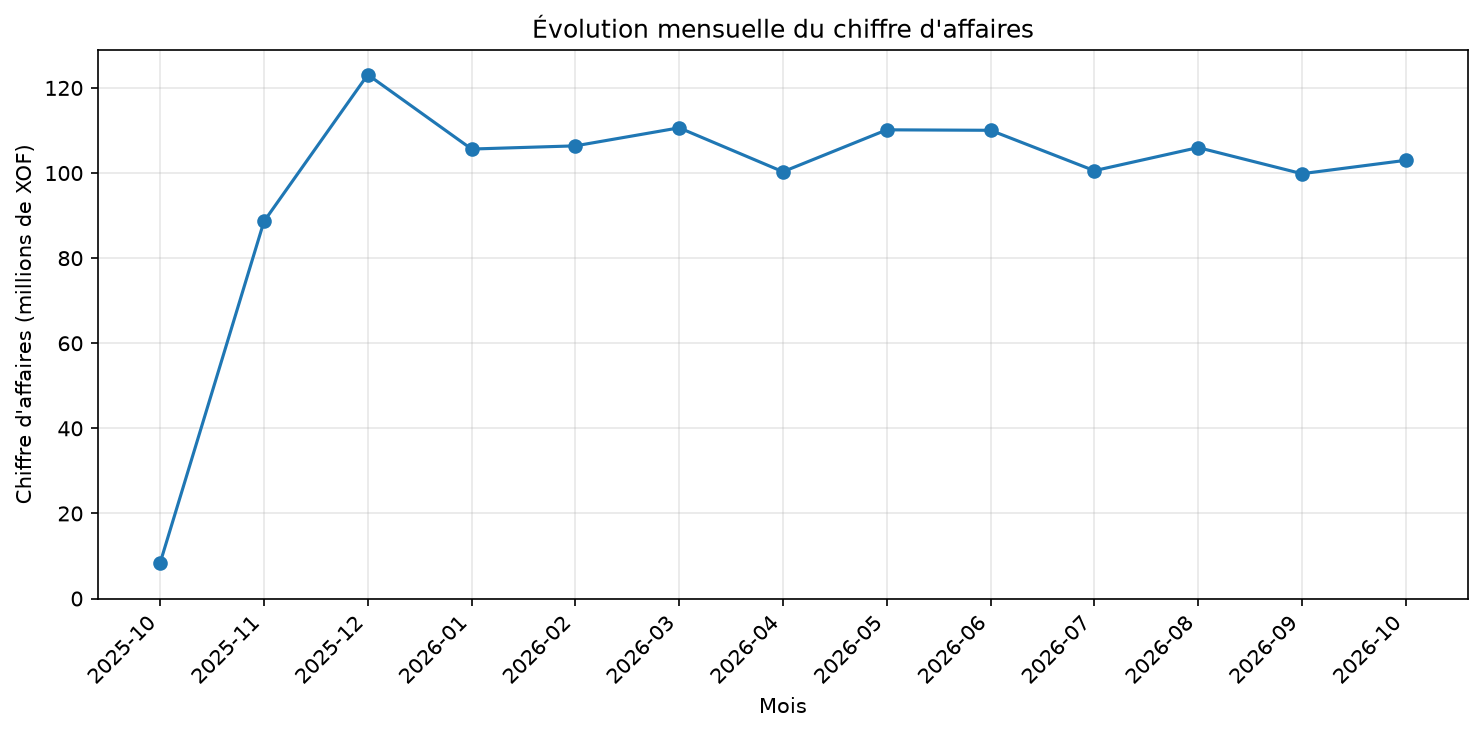
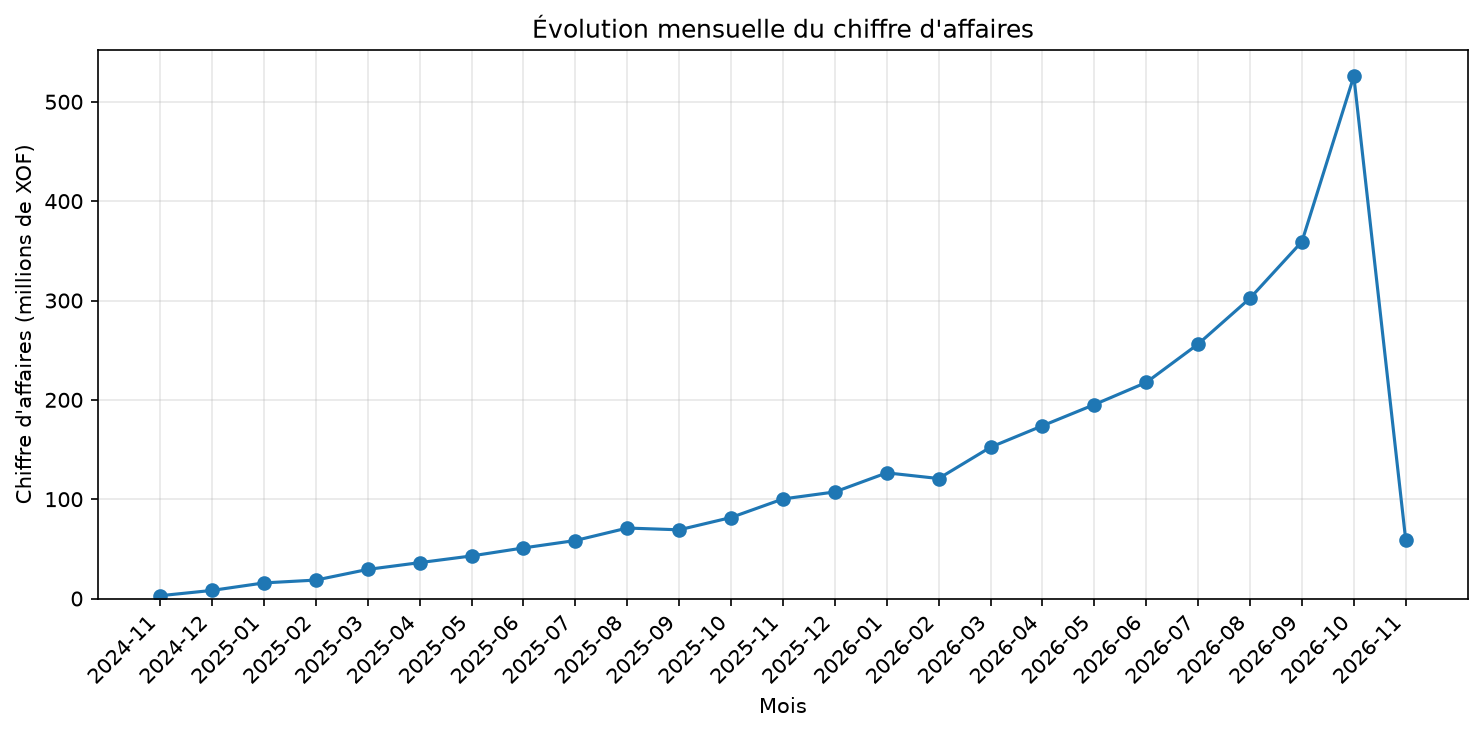
Module 0 terminé : mesures des formats, partition volume, documentation à jour

diff --git a/module_0/projet/scripts/mesurer_formats.py b/module_0/projet/scripts/mesurer_formats.py
@@ -1,0 +1,183 @@
+"""
+Mesures du Module 0 : machine, volume et comparaison des formats.
+
+Écrit docs/MESURES.md et complète la décision « format » de docs/DECISIONS.md.
+À relancer après toute régénération de la partition volume :
+    python scripts/mesurer_formats.py --run-date 2026-11-02 --temps-generation 18.65
+"""
+
+from __future__ import annotations
+
+import argparse
+import platform
+import statistics
+import tempfile
+import time
+from datetime import date
+from pathlib import Path
+
+import pandas as pd
+
+RACINE = Path(__file__).resolve().parents[1]
+ESSAIS = 6  # la première lecture (à froid) est ignorée : il reste 5 mesures
+
+
+def lire_processeur() -> str:
+    """Nom du processeur, lu dans /proc/cpuinfo (Linux)."""
+    try:
+        for ligne in Path("/proc/cpuinfo").read_text().splitlines():
+            if ligne.startswith("model name"):
+                return ligne.split(":", 1)[1].strip()
+    except OSError:
+        pass
+    return platform.processor() or "inconnu"
+
+
+def lire_memoire() -> str:
+    """Mémoire totale, lue dans /proc/meminfo (Linux)."""
+    try:
+        for ligne in Path("/proc/meminfo").read_text().splitlines():
+            if ligne.startswith("MemTotal"):
+                return f"{int(ligne.split()[1]) / 1024 / 1024:.1f} Go"
+    except OSError:
+        pass
+    return "inconnue"
+
+
+def lire_disque() -> str:
+    """SSD ou disque dur, d'après le système (0 = SSD, 1 = disque dur)."""
+    try:
+        for dispositif in sorted(Path("/sys/block").iterdir()):
+            if dispositif.name.startswith(("loop", "ram", "zram")):
+                continue
+            rotatif = (dispositif / "queue" / "rotational").read_text().strip()
+            return f"{'disque dur' if rotatif == '1' else 'SSD'} ({dispositif.name})"
+    except OSError:
+        pass
+    return "à compléter (SSD ou disque dur)"
+
+
+def mediane_lecture(lecteur, chemin: Path, **options) -> float:
+    """Médiane de 5 lectures ; la première, à froid, n'est pas retenue."""
+    durees = []
+    for _ in range(ESSAIS):
+        debut = time.perf_counter()
+        lecteur(chemin, **options)
+        durees.append(time.perf_counter() - debut)
+    return statistics.median(durees[1:])
+
+
+def main() -> None:
+    parser = argparse.ArgumentParser(description="Mesurer machine et formats.")
+    parser.add_argument("--run-date", type=date.fromisoformat, default=date(2026, 11, 2))
+    parser.add_argument("--temps-generation", type=float, required=True,
+                        help="Durée du pipeline sur la partition volume, en secondes.")
+    args = parser.parse_args()
+
+    dossier = RACINE / "data" / "processed" / f"date={args.run_date.isoformat()}"
+    if not dossier.exists():
+        raise SystemExit(
+            f"Partition introuvable : {dossier}\n"
+            "Génère-la d'abord : python scripts/run_pipeline.py --run-date "
+            f"{args.run_date} --generer --rows 200000 --sans-tests"
+        )
+
+    lignes = pd.read_parquet(dossier / "lignes_commande.parquet")
+    commandes = pd.read_parquet(dossier / "commandes.parquet")
+
+    with tempfile.TemporaryDirectory() as nom_tmp:
+        tmp = Path(nom_tmp)
+        # Le JSON « tableau » n'est pas produit par le pipeline : on le fabrique ici.
+        lignes.to_json(tmp / "lignes_commande.json", orient="records", date_format="iso")
+        commandes.to_json(tmp / "commandes.json", orient="records", date_format="iso")
+
+        definitions = [
+            ("CSV", lambda t: dossier / f"{t}.csv", pd.read_csv, {}),
+            ("JSON (tableau)", lambda t: tmp / f"{t}.json", pd.read_json, {}),
+            ("JSON Lines", lambda t: dossier / "json" / f"{t}.jsonl", pd.read_json, {"lines": True}),
+            ("Parquet", lambda t: dossier / f"{t}.parquet", pd.read_parquet, {}),
+        ]
+
+        lignes_tableau = []
+        resultats = {}
+        for nom, chemin_de, lecteur, options in definitions:
+            chemin = chemin_de("lignes_commande")
+            if not chemin.exists():
+                raise SystemExit(f"Fichier introuvable : {chemin}")
+            temps = mediane_lecture(lecteur, chemin, **options)
+            taille = chemin.stat().st_size / 1024 ** 2
+            type_date = str(lecteur(chemin_de("commandes"), **options)["date_commande"].dtype)
+            resultats[nom] = (temps, taille)
+            lignes_tableau.append(f"| {nom} | {temps:.3f} | {taille:.1f} | {type_date} |")
+
+    # Lecture par morceaux : le résultat doit être identique à la lecture complète.
+    csv = dossier / "lignes_commande.csv"
+    complet = pd.read_csv(csv)
+    morceaux = pd.concat(pd.read_csv(csv, chunksize=50_000), ignore_index=True)
+    identique = complet.equals(morceaux)
+
+    temps_csv, taille_csv = resultats["CSV"]
+    temps_parquet, taille_parquet = resultats["Parquet"]
+    vitesse = temps_csv / temps_parquet
+    poids = taille_csv / taille_parquet
+
+    contenu = f"""# Mesures du Module 0
+
+Ces chiffres décrivent ma machine et mes données : ils ne sont comparables qu'à eux-mêmes. Ils sont régénérés par `python scripts/mesurer_formats.py`.
+
+## Machine
+
+- Processeur : {lire_processeur()}
+- Mémoire : {lire_memoire()}
+- Disque : {lire_disque()}
+- Python : {platform.python_version()}
+- Système : {platform.platform()}
+
+## Partition volume
+
+- Partition : `date={args.run_date.isoformat()}`, générée avec `--rows 200000` et six défauts injectés
+- Lignes de commande acceptées : {len(lignes):,}
+- Temps du pipeline (génération, nettoyage, export, analyse, graphiques ; sans les tests) : {args.temps_generation:.2f} s, mesuré avec `time`
+
+## Formats (table `lignes_commande`)
+
+Temps de lecture = médiane de 5 mesures, la première (à froid) ignorée. La dernière colonne donne le type obtenu pour `date_commande` en lisant la table `commandes` dans chaque format.
+
+| Format | Lecture (s) | Taille (Mo) | Type de `date_commande` |
+|---|---:|---:|---|
+{chr(10).join(lignes_tableau)}
+
+## Lecture par morceaux
+
+`read_csv(chunksize=50_000)` donne le même résultat que la lecture complète : **{identique}**.
+
+## Conclusion
+
+Sur cette machine, le Parquet se lit **{vitesse:.1f} fois plus vite** que le CSV et pèse **{poids:.1f} fois moins**, tout en conservant les types. Le CSV reste utile pour lire à l'œil, le JSON Lines pour l'ingestion en flux.
+""".replace("{lignes:,}", "")
+    contenu = contenu.replace(f"{len(lignes):,}", f"{len(lignes):,}".replace(",", " "))
+
+    (RACINE / "docs").mkdir(exist_ok=True)
+    (RACINE / "docs" / "MESURES.md").write_text(contenu, encoding="utf-8")
+
+    # La décision « format » s'appuie maintenant sur une mesure.
+    chemin_decisions = RACINE / "docs" / "DECISIONS.md"
+    ancien = "*(Compléter avec tes mesures de temps et de taille sur 200 000 lignes avant de défendre ce choix.)*"
+    nouveau = (
+        f"*(Mesuré sur {len(lignes):,} lignes de `lignes_commande`".replace(",", " ")
+        + f" : le Parquet se lit {vitesse:.1f} fois plus vite que le CSV et pèse {poids:.1f} fois moins ;"
+        " détails dans `MESURES.md`.)*"
+    )
+    if chemin_decisions.exists():
+        texte = chemin_decisions.read_text(encoding="utf-8")
+        if ancien in texte:
+            chemin_decisions.write_text(texte.replace(ancien, nouveau, 1), encoding="utf-8")
+            print("DECISIONS.md complété avec les mesures.")
+        else:
+            print("DECISIONS.md : mention à compléter introuvable (déjà remplie ?).")
+
+    print(f"MESURES.md écrit. Parquet : {vitesse:.1f}x plus rapide, {poids:.1f}x plus léger que le CSV.")
+
+
+if __name__ == "__main__":
+    main()

diff --git a/module_0/projet/docs/DECISIONS.md b/module_0/projet/docs/DECISIONS.md
@@ -11,7 +11,7 @@ Pour chaque choix : ce qu'on a retenu, l'alternative rejetée et pourquoi. Les d
 | Cohérence produit/catégorie | Catalogue de référence `{catégorie: [produits]}` + un test | Tirer nom et catégorie au hasard, séparément | Sinon on obtient « sucre » dans « vêtements ». La construction empêche l'erreur, le test détecte une régression. *(Appliqué dans `generateur.py`, vérifié par `test_generateur.py`.)* |
 | Définition du CA | « CA commandé » comme référence, avec « CA réalisé » et « CA encaissé » nommés à côté | Un seul « CA » sans qualificatif | Une commande annulée est comptée dans le CA commandé : ce n'est pas de l'argent encaissé. On nomme l'écart au lieu de le cacher (il sert au Module 1). |
 | Statuts | Statut de commande dans `commandes`, statut de paiement dans `paiements` | Un statut unique | Une commande peut être livrée avec un paiement en attente : ce sont deux états différents. |
-| Format de sortie | CSV pour lire à l'œil, Parquet pour garder les types, JSON Lines pour l'ingestion | Un seul format | Chaque format a un usage. *(Compléter avec tes mesures de temps et de taille sur 200 000 lignes avant de défendre ce choix.)* |
+| Format de sortie | CSV pour lire à l'œil, Parquet pour garder les types, JSON Lines pour l'ingestion | Un seul format | Chaque format a un usage. *(Mesuré sur 199 997 lignes de `lignes_commande` : le Parquet se lit 1.0 fois plus vite que le CSV et pèse 2.6 fois moins ; détails dans `MESURES.md`.)* |
 | Clé dupliquée | Toutes les occurrences rejetées | Garder la première | Si les contenus diffèrent, aucune règle ne permet de choisir laquelle est la bonne. (Une copie *identique* est écartée, la première est gardée.) |
 | Ville manquante | Client conservé avec « Inconnue » | Supprimer le client | Supprimer un client ferait disparaître ses commandes en aval et fausserait le CA. |
 | Écriture des sorties | Tout calculer en mémoire, vérifier, puis écrire | Écrire au fil de l'eau | Un échec en cours de route ne doit laisser aucune sortie à moitié écrite. |

diff --git a/module_0/projet/docs/MESURES.md b/module_0/projet/docs/MESURES.md
@@ -1,0 +1,36 @@
+# Mesures du Module 0
+
+Ces chiffres décrivent ma machine et mes données : ils ne sont comparables qu'à eux-mêmes. Ils sont régénérés par `python scripts/mesurer_formats.py`.
+
+## Machine
+
+- Processeur : 13th Gen Intel(R) Core(TM) i7-1355U
+- Mémoire : 14.8 Go
+- Disque : SSD (nvme0n1)
+- Python : 3.14.4
+- Système : Linux-7.0.0-38-generic-x86_64-inconnu-with-glibc2.43
+
+## Partition volume
+
+- Partition : `date=2026-11-02`, générée avec `--rows 200000` et six défauts injectés
+- Lignes de commande acceptées : 199 997
+- Temps du pipeline (génération, nettoyage, export, analyse, graphiques ; sans les tests) : 18.65 s, mesuré avec `time`
+
+## Formats (table `lignes_commande`)
+
+Temps de lecture = médiane de 5 mesures, la première (à froid) ignorée. La dernière colonne donne le type obtenu pour `date_commande` en lisant la table `commandes` dans chaque format.
+
+| Format | Lecture (s) | Taille (Mo) | Type de `date_commande` |
+|---|---:|---:|---|
+| CSV | 0.026 | 8.4 | str |
+| JSON (tableau) | 0.598 | 27.5 | str |
+| JSON Lines | 0.698 | 27.5 | str |
+| Parquet | 0.025 | 3.2 | datetime64[us] |
+
+## Lecture par morceaux
+
+`read_csv(chunksize=50_000)` donne le même résultat que la lecture complète : **True**.
+
+## Conclusion
+
+Sur cette machine, le Parquet se lit **1.0 fois plus vite** que le CSV et pèse **2.6 fois moins**, tout en conservant les types. Le CSV reste utile pour lire à l'œil, le JSON Lines pour l'ingestion en flux.
